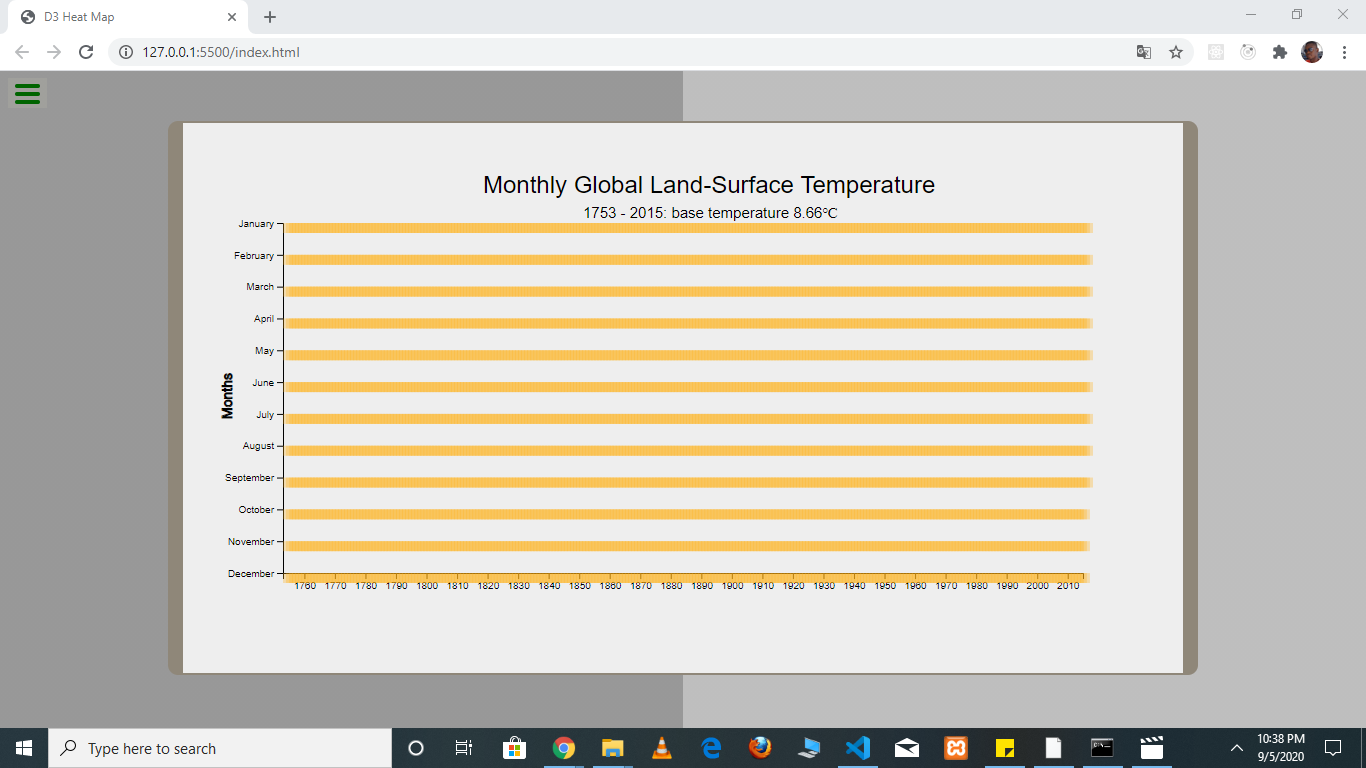
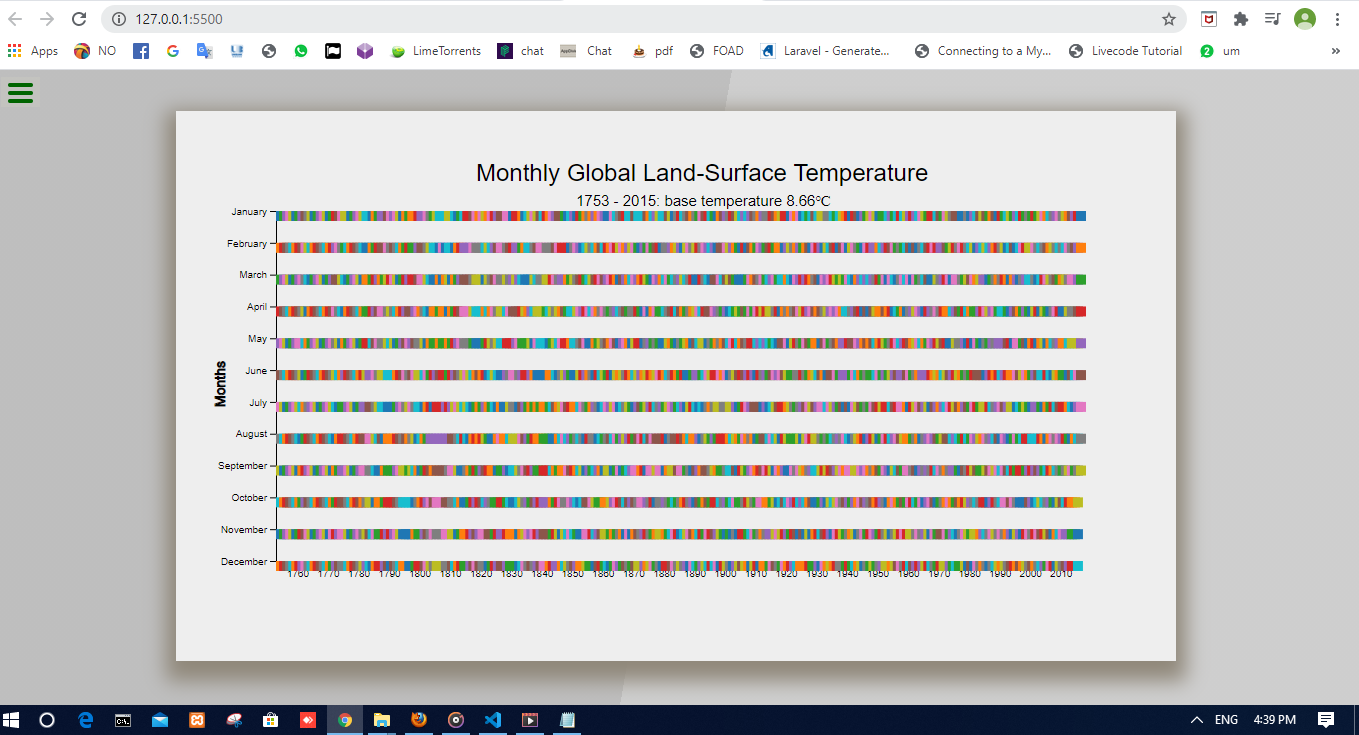
new updated!

diff --git a/index.js b/index.js
@@ -8,7 +8,7 @@ fetch("https://raw.githubusercontent.com/freeCodeCamp/ProjectReferenceData/maste
        const {baseTemperature, monthlyVariance}=response;
        const data=monthlyVariance.map(d=>({
            ...d,
-           temp: baseTemperature - d.variance
+           baseTemperature: baseTemperature - d.variance
        }))
        
     //XSCALE
@@ -23,13 +23,16 @@ fetch("https://raw.githubusercontent.com/freeCodeCamp/ProjectReferenceData/maste
     const yScale=d3.scaleLinear()
                    .domain([0, 11])
                    .range([0, height]);
-    g.append("g").attr("id","y-axis").call(d3.axisLeft(yScale).tickFormat(month=>{
+    g.append("g").attr("id","y-axis").call(d3.axisLeft(yScale)
+    .tickFormat(month=>{
         const date=new Date();
         date.setUTCMonth(month);
         return d3.timeFormat("%B")(date);
     }));
-    //color
-    const color=d3.scaleOrdinal(["#C0C0C0","#808080",,"#FFFF00", "#808000","#008000","#800000","#FF0000"]);
+
+    //color SCALE 
+    //const colors=d3.scaleOrdinal(["#C0C0C0","#808080",,"#FFFF00", "#808000","#008000","#800000","#FF0000"]);
+    const colors=d3.scaleOrdinal(d3.schemeCategory10);
 
     //TITLE
     svg.append("text")
@@ -61,7 +64,7 @@ fetch("https://raw.githubusercontent.com/freeCodeCamp/ProjectReferenceData/maste
         .text("Months");
 
 
-        //const tooltip=d3.select("body").append("div").attr("class","tooltip").attr("id", "tooltip").style("opacity", 0);
+    const tooltip=d3.select("body").append("div").attr("class","tooltip").attr("id", "tooltip").style("opacity", 0);
   
     g.selectAll("rect")
        .data(data)
@@ -76,17 +79,17 @@ fetch("https://raw.githubusercontent.com/freeCodeCamp/ProjectReferenceData/maste
        .attr("width", 10)
        .attr("height", 10)
        .attr("fill",d=>{
-            return d=>color(d.baseTemperature)
+            return colors(d.baseTemperature)
         })
-        //     .on("mouseover", d => { 
-        //      tooltip.style("opacity", 0.9);
-        //      tooltip.attr("data-year", d.Year);
-        //      tooltip.html(d.Name + ", "+ d.Nationality +"<br />"+"Year: "+ d.Year + ', Time: ' +d.Time +"<br />"+d.Doping)
-        //     .style("left", d3.event.pageX + "px")
-        //     .style("top", d3.event.pageY - 28 + "px");
-        //     })   
-        //     .on("mouseout", d => {
-        //      tooltip.style("opacity", 0);
-        //     });
+            .on("mouseover", d => { 
+             tooltip.style("opacity", 0.9);
+             tooltip.attr("data-year", d.year);
+             tooltip.html(d.year + ", "+ d.month +"<br />"+ d.baseTemperature + " ℃"+"<br />"+ d.variance)
+            .style("left", d3.event.pageX + "px")
+            .style("top", d3.event.pageY - 28 + "px");
+            })   
+            .on("mouseout", d => {
+             tooltip.style("opacity", 0);
+            });
      });
      

diff --git a/style.css b/style.css
@@ -15,10 +15,10 @@ svg{
     box-shadow: 0px 10px 20px 10px #8f8779;
 }
 
-rect{
+/* rect{
     fill:#FFAF12;
     opacity:0.3;
-}
+} */
 
 rect:hover{
     fill:white;
@@ -27,8 +27,8 @@ rect:hover{
 
 .tooltip {
     background-color: #eee;
-    border-left:6px solid #8f8779;
-    border-right:6px solid #8f8779;
+    border-left:10px solid #8f8779;
+    border-right:10px solid #8f8779;
     border-top:2px solid #8f8779;
     border-bottom:2px solid #8f8779;
     position: absolute;
@@ -38,5 +38,4 @@ rect:hover{
     padding: 10px;
     pointer-events: none;
     text-align: left;
-    border-radius: 10px;
   }
